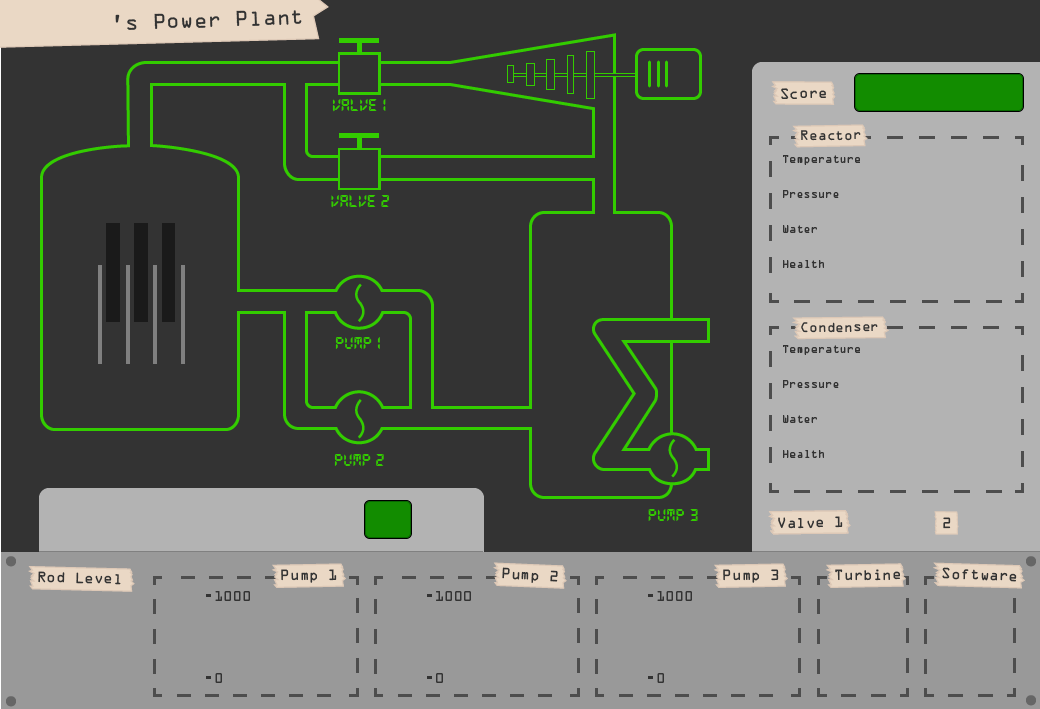
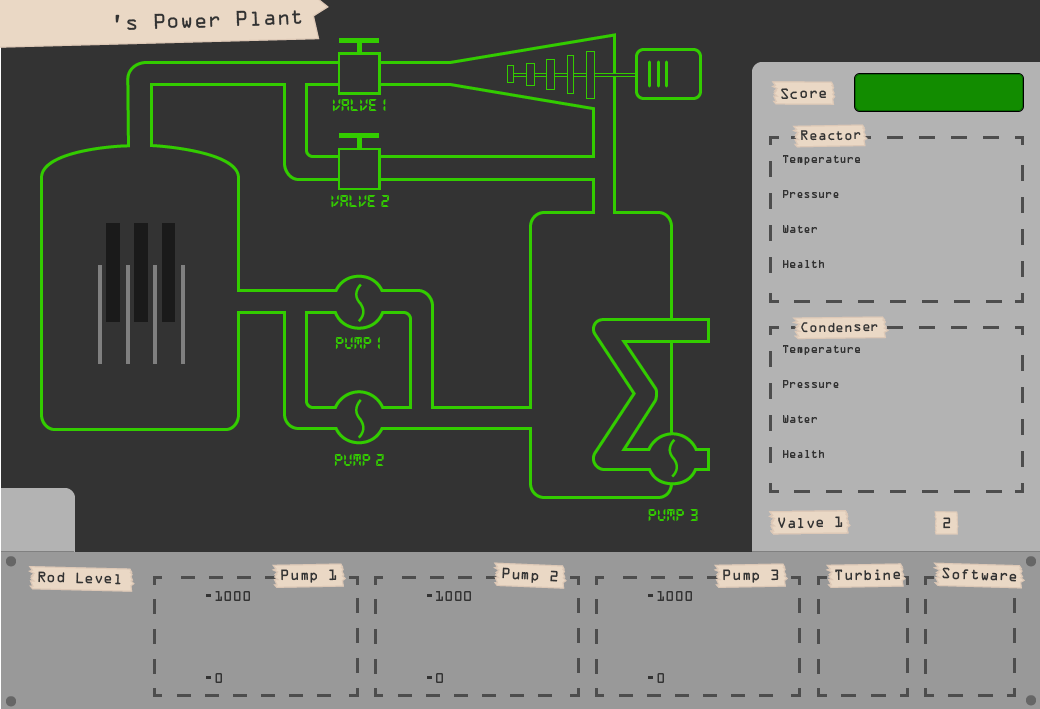
Main backgroung gui changes (bar at bottom)

Changed region(s): [[0.0, 0.6827, 0.4923, 0.7757]]

diff --git a/ReactorEE/swing/MultiplayerMainGUI.java b/ReactorEE/swing/MultiplayerMainGUI.java
@@ -1,5 +1,6 @@
 package ReactorEE.swing;
 
+import java.awt.Color;
 import java.awt.EventQueue;
 import java.awt.Font;
 import java.awt.event.ActionEvent;
@@ -8,6 +9,7 @@ import java.io.IOException;
 import java.net.Inet4Address;
 import java.net.UnknownHostException;
 
+import javax.swing.ImageIcon;
 import javax.swing.JLabel;
 import javax.swing.JOptionPane;
 
@@ -21,7 +23,7 @@ import ReactorEE.sound.Sound;
 public class MultiplayerMainGUI extends MainGUI{
 
 	private String saboteurIP;
-	JLabel lblAvailableSabos = new JLabel("Available Sabotages: 0");
+	JLabel lblAvailableSabos = new JLabel("Available Sabotages  0");
 	GUIRefresher guir = null;
 	
 	/**
@@ -48,6 +50,16 @@ public class MultiplayerMainGUI extends MainGUI{
 	public MultiplayerMainGUI(final PlantController plantController, String IP) {
 		super(plantController);
 		this.saboteurIP = IP;
+		
+		layeredPane.remove(1);
+		java.net.URL imageURL = this.getClass().getClassLoader().getResource("ReactorEE/graphics/plantBackgroundSabo.png");
+        ImageIcon backgroundImageIcon = new ImageIcon(imageURL);
+        JLabel backgroundImageLabel = new JLabel(backgroundImageIcon);
+        backgroundImageLabel.setBackground(new Color(0, 153, 0));
+        backgroundImageLabel.setBounds(0, 0, 1040, 709);
+        layeredPane.add(backgroundImageLabel, 1);
+		
+		
 		btnRepairPump1.removeActionListener(btnRepairPump1.getActionListeners()[0]);
 		btnRepairPump1.addActionListener(new ActionListener() {
             public void actionPerformed(ActionEvent e) {
@@ -119,7 +131,7 @@ public class MultiplayerMainGUI extends MainGUI{
 		//initialise label displaying the number of sabtages that that sabateur has.
         lblAvailableSabos.setFont(new Font("Tahoma", Font.PLAIN, 30));
         layeredPane.setLayer(lblAvailableSabos, 2);
-        lblAvailableSabos.setBounds(46, 490, 315, 59);
+        lblAvailableSabos.setBounds(90, 493, 315, 59);
         layeredPane.add(lblAvailableSabos);
         
         //disable gui componnets that are not needed in multiplayer
@@ -157,7 +169,7 @@ public class MultiplayerMainGUI extends MainGUI{
 	public void updateGUI(){
 		super.updateGUI();
 		if(lblAvailableSabos != null && guir!= null){
-			lblAvailableSabos.setText("Available Sabotages: " + guir.getNumberOfAvailableSabotages());
+			lblAvailableSabos.setText("Available Sabotages  " + guir.getNumberOfAvailableSabotages());
 		}
 		
 	}

diff --git a/ReactorEE/swing/MainGUI.java b/ReactorEE/swing/MainGUI.java
@@ -184,6 +184,7 @@ public class MainGUI
         backgroundImageLabel.setBackground(new Color(0, 153, 0));
         backgroundImageLabel.setBounds(0, 0, 1040, 709);
         layeredPane.add(backgroundImageLabel);
+        System.out.print(layeredPane.getComponentCount());
 
         //loads all the images that are required for the image labels
         //the path is relative to the project
@@ -532,7 +533,7 @@ public class MainGUI
         btnStep = new JButton(nextStepImageIcon);
         btnStep.setToolTipText("Step");
         btnStep.setOpaque(false);
-        btnStep.setBounds(426, 500, 49, 39);
+        btnStep.setBounds(10, 502, 49, 39);
         btnStep.setMargin(new Insets(0,0,0,0));
         btnStep.setBorder(null);
         btnStep.addActionListener(new ActionListener() {
